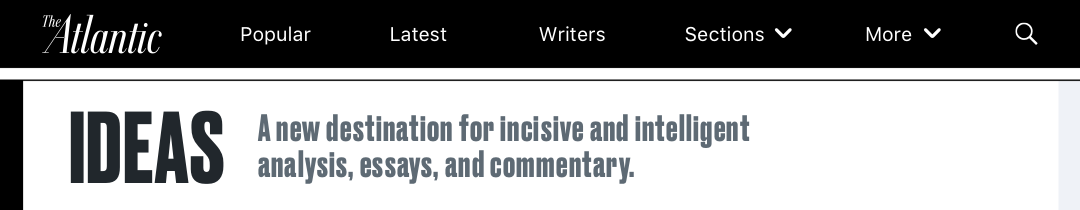
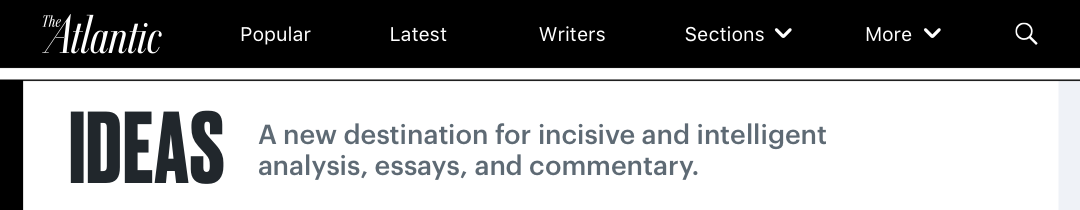
tried to do c write-up, added nav iconsgit status

Changed region(s): [[0.2139, 0.5429, 0.7639, 0.7143], [0.2139, 0.7143, 0.6417, 0.8857]]

diff --git a/collections.html b/collections.html
@@ -41,27 +41,54 @@
                 <tr class="">
                     <td class="w-90-l w-100 bt">
                         <p class="project-title lh-title karla">The Atlantic - Collections</p>
-                        <p class="lh-title">A new way to create and exhibit stories</p>
+                        <p class="lh-title">A new way to create and exhibit series of stories</p>
                         <img src="/images/coming-soon.png" class="w-100 pv2">
 
-                        <p class="lh-title">In collaboration with Caitlyn Hampton, I designed the story building tool Collections. </p><br>
+                        <p class="lh-title">In collaboration with Caitlyn Hampton, I designed Collections, a story building tool. </p><br>
                         
                         <p class="lh-title sub-title">The Problem</p>
-                        <p class="lh-title">Current collections of stories (channel pages, deluxe template) are stale, inflexible, and do little more than list out articles.</p><br>
+                        <p class="lh-title">Current collections of stories (channel pages, categories, special projects) are stale, inflexible, and do little more than list out articles. Additionally, the distinctions and differences between each are not obvious or useful to readers. </p><br>
                         
-                        <p class="lh-title sub-title">Initial Research</p>
-                        <p class="lh-title">
-                            - stakeholder interviews with edit, design, sales, data, product about what a Collections tool would help with<br>
-                            - competitive research to see what landing pages out there were delightful and immersive to readers<br>
-                            - <em class="red">TODO: include photos</em></p><br>
+                        <p class="lh-title sub-title">Research</p>
+                        <ul class="lh-title">
+                            <li>Stakeholder interviews to determine use cases of Collections tool</li>
+                            <ul><li>Interviewed edit, design, sales, data, and product teams</li></ul>
+                            <li>Competitive research of other landing pages that provide delightful and immersive experiences to readers</li>
+                            <li>User stories: who (are our users), what (is the need to meet), wow (how to measure success)?
+                                <ul>
+                                    <li>ex) A reader found a special project on Twitter, read at least 2 stories, and then tweeted the special project himself.</li>
+                                </ul>
+                            </li>
+                        </ul><br>
                         
-                        <p class="lh-title sub-title">Goal</p>
-                        <p class="lh-title">The primary goals to accomplish: <br>
-                            - empower editors &amp; writers to create story collection layouts that suit their editorial needs<br>
-                            - reduce # of one-off page builds for product team, thus saving time &amp; resources<br>
-                            - delight readers  </p><br>
+                        <p class="lh-title sub-title">Goals</p>
+                        <ul class="lh-title">
+                            <li>Empower editors with the flexibility to create story collection layouts that highlight their editorial coverage while impressing readers</li>
+                            <li>Give readers collection pages that don't just host articles, but serve as rich story-telling pages themselves</li>
+                            <li>Reduce # of unique page builds by the product team, saving time &amp; resources</li>
+                        </ul>
+                        <p class="lh-title">From this research phase, we set out to build an internal tool for Atlantic folks to externally output collections of stories, all created with editorial storytelling and reader delight in mind.</p><br>
+
                         
-                        <p class="lh-title sub-title">Wireframes</p><br>
+                        <p class="lh-title sub-title">Wireframes</p>
+                        <p class="lh-title">Scenario-driven templates with interchangable zones to provide the right mixture of structure and flexibility: </p>
+                        <img src="images/collections/collections-plan.png"><br><br>
+                        
+                        <p class="lh-title">Paper prototyping with editorial staff to see how they would use this tool: </p>
+                        <div class="dt-ns dt--fixed-ns">
+                          <div class="dtc-ns tc pa2">
+                            <img src="images/collections/paper-prototype1.jpg">
+                          </div>
+
+                          <div class="dtc-ns tc pa2">
+                            <img src="images/collections/paper-prototype2.jpg"><br><br>
+                          </div>
+                        </div>
+                        
+                        <p class="lh-title">Examples of different zone variations and page layout mockups: </p>
+                        <img src="images/collections/curated2.png">
+                        <img class="pt2" src="images/collections/thematic.png">
+
                         
                         
                         <p class="lh-title sub-title">User Testing</p><br>

diff --git a/index.html b/index.html
@@ -19,14 +19,14 @@
     <!-- NAV BAR -->
     <nav class="dt w-100 w-60-ns pt3 pt4-ns">
       <div class="dt-row w-100">
-        <p class="fl w-34 w-25-l"><a href="index.html" title="Home" class="link">x HOME</a></p>
-        <p class="fl w-34 w-25-l"><a href="about.html" title="About Me" class="link">x ABOUT</a></p>
-        <p class="fl w-30 w-25-l"><a href="journal.html" title="Journal" class="link">x JOURNAL</a></p>   
+        <p class="fl w-34 w-25-l"><a href="index.html" title="Home" class="link"><img src="images/nav/house-icon.png"> HOME</a></p>
+        <p class="fl w-34 w-25-l"><a href="about.html" title="About Me" class="link"><img src="images/nav/about-icon.png"> ABOUT</a></p>
+        <p class="fl w-30 w-25-l"><a href="journal.html" title="Journal" class="link"><img src="images/nav/journal-icon.png"> JOURNAL</a></p>   
       </div>
       <div class="dt-row w-100">
-        <p class="fl w-34 w-25-l"><a href="https://www.twitter.com/_angelahe" title="Twitter" class="link" target="_blank">x TWEETS</a></p>
-        <p class="fl w-34 w-25-l"><a href="https://www.goodreads.com/angela-he" title="Goodreads" class="link" target="_blank">x READING</a></p>
-        <p class="fl w-30 w-25-l"><a href="mailto:angelahe4@gmail.com" title="Email" class="link">x SAY HELLO</a></p>
+        <p class="fl w-34 w-25-l"><a href="https://www.twitter.com/_angelahe" title="Twitter" class="link" target="_blank"><img src="images/nav/twitter-icon.png"> TWEETS</a></p>
+        <p class="fl w-34 w-25-l"><a href="https://www.goodreads.com/angela-he" title="Goodreads" class="link" target="_blank"><img src="images/nav/reading-icon.png"> READING</a></p>
+        <p class="fl w-30 w-25-l"><a href="mailto:angelahe4@gmail.com" title="Email" class="link"><img src="images/nav/email-icon.png"> SAY HELLO</a></p>
       </div> 
     </nav>
     </header>
@@ -40,7 +40,7 @@
                 <!-- PRODUCT & th padding(?) -->
                 <tr class="">
                     <th class="w-10 bt pr3 pr5-ns title">PRODUCT</th>
-                    <td class="w-90 bt link"><a href="collections.html" class="link pv3">THE ATLANTIC - Collections<em> (coming soon!)</em></a></td>
+                    <td class="w-90 bt link pv3"><!--<a href="collections.html" class="link pv3">-->THE ATLANTIC - Collections<em> (coming soon!)</em></a></td>
                 </tr>
                 <tr class="">
                     <th class="w-10"></th>

diff --git a/ideas.html b/ideas.html
@@ -42,7 +42,7 @@
                     <td class="w-90-l w-100 bt">
                         <p class="project-title lh-title karla">The Atlantic - Ideas Section</p>
                         <p class="lh-title">Designs for The Atlantic's new section of opinion and analysis-driven pieces</p>
-                        <img src="/images/ideas/ideas-header.png" class="w-100 pv2">
+                        <img src="/images/ideas/ideasheader2.png" class="w-100 pv2">
 
                         <p class="lh-title">In collaboration with Chris Sullivan, I designed the reading experience for <a href="https://www.theatlantic.com/ideas/archive/2018/09/introducing-the-atlantics-ideas-section/569221/" class="link text-link">Ideas,</a> The Atlantic's new editorial initiative featuring articles of deep reporting with a point of view. </p><br>
                         
